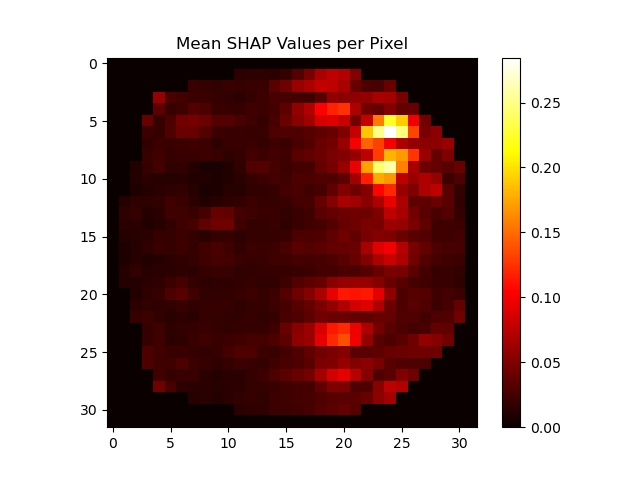
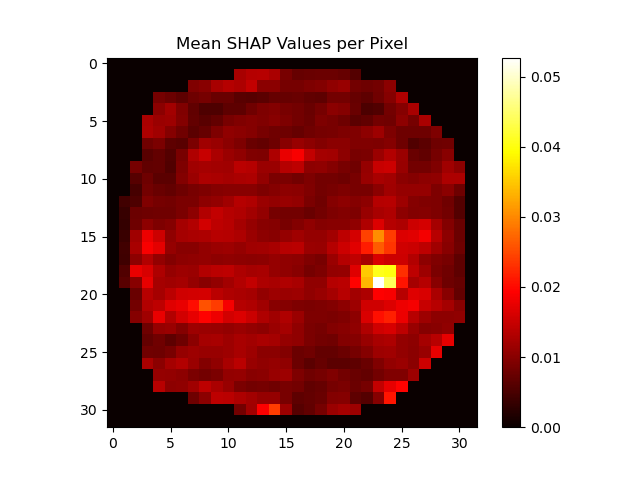
results generated

diff --git a/random_cv.py b/random_cv.py
@@ -788,7 +788,7 @@ if __name__ == "__main__":
     print(f"mean SHAP shape: {mean_shap_per_pixel.shape}")
 
     
-    X, reduced_channels = reduce_channels(original_values, mean_shap_per_pixel, channel_names, reduction=32)
+    X, reduced_channels = reduce_channels(original_values, mean_shap_per_pixel, channel_names, reduction=16)
     print(f"X shape after reduction: {X.shape}")
 
     shap_results = []
